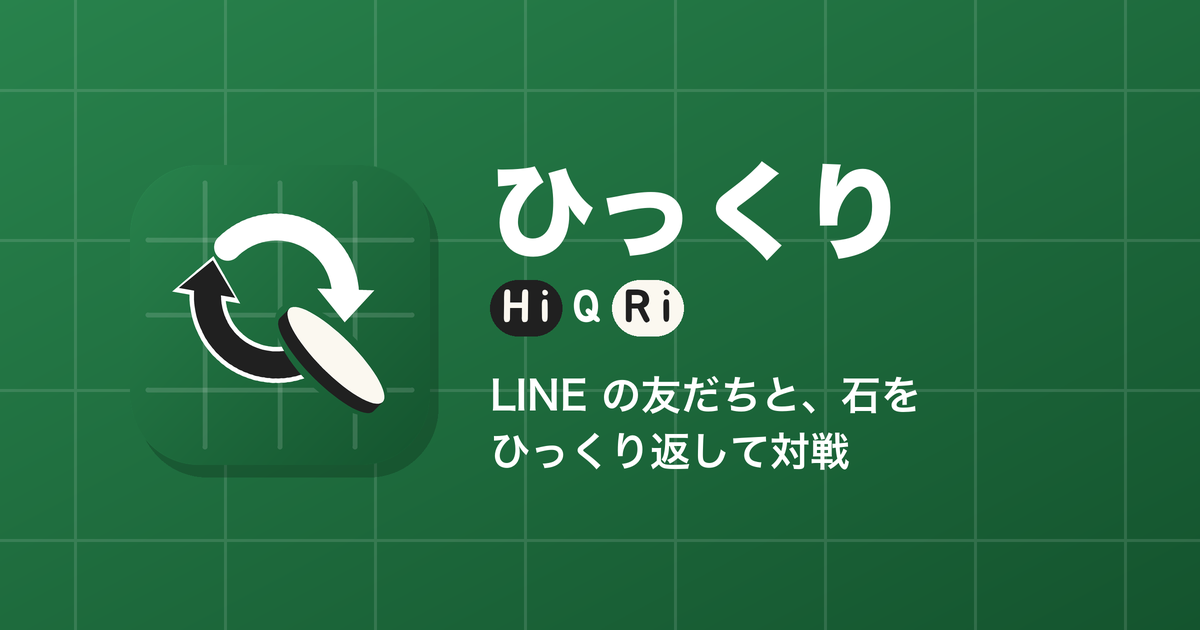
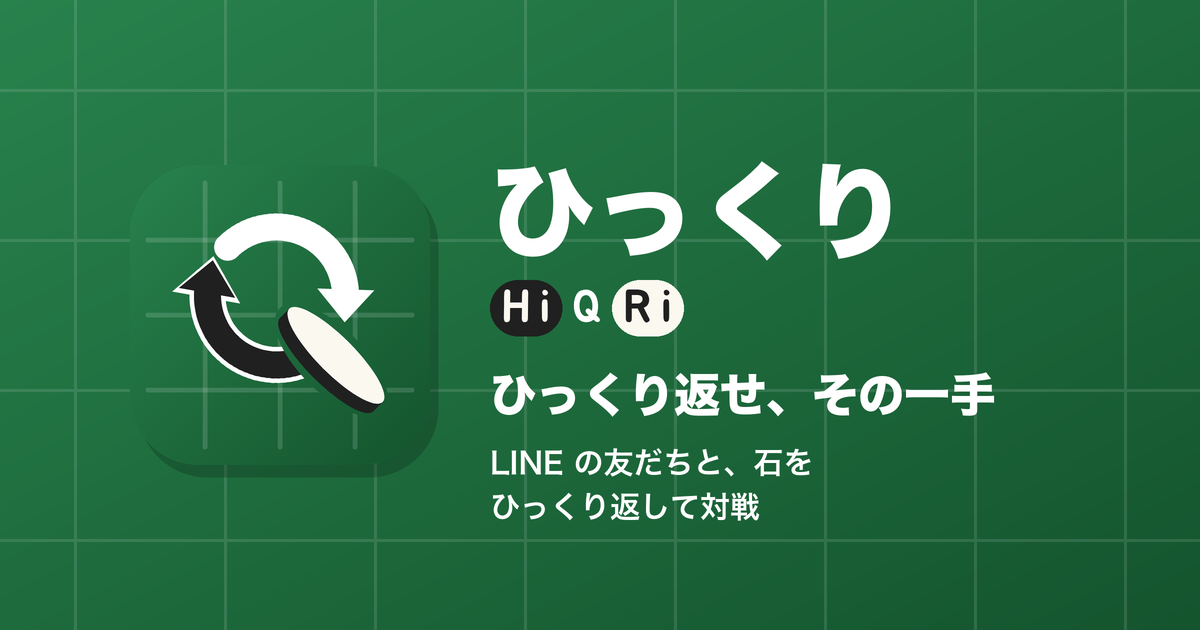
[add] キャッチコピー「ひっくり返せ、その一手」を見出しの下と OGP に入れる

Changed region(s): [[0.4008, 0.573, 0.8325, 0.754], [0.4008, 0.7841, 0.6475, 0.8444]]

diff --git a/index.html b/index.html
@@ -40,6 +40,7 @@
           <img class="brand-logo" src="assets/logo.svg" alt="HiQRi" width="78" height="28">
           <span id="versionBadge" class="version-badge" aria-label="コミットバージョン">----</span>
         </div>
+        <p class="brand-copy">ひっくり返せ、その一手</p>
       </div>
       <div class="top-actions">
         <div class="room-overview">

diff --git a/css/styles.css b/css/styles.css
@@ -476,3 +476,6 @@ button:disabled {
   font-weight: 600;
   opacity: 0.85;
 }
+
+/* キャッチコピー（見出しの行のすぐ下。おくるんの「つくって、おくるん」と同じ役目） */
+.brand-copy { margin: 4px 0 0; color: #1F7A45; font-size: 13px; font-weight: 800; line-height: 1.4; letter-spacing: 0.02em; }

diff --git a/tools/icon.py b/tools/icon.py
@@ -104,7 +104,7 @@ def main():
     BRAND.write_icons(ASSETS, SHAPES)
     logo, ratio = BRAND.logo_svg("HiQRi", SHAPES, C, RING_OUTER, "HiQRi（ひっくり）", fills=LETTERS, plates=PLATES)
     (ASSETS / "logo.svg").write_text(logo, encoding="utf-8")
-    BRAND.write_ogp(ASSETS / "ogp.png", SHAPES, "ひっくり", "HiQRi", ["LINE の友だちと、石を", "ひっくり返して対戦"], decorate, en_fills=LETTERS, en_plates=PLATES)
+    BRAND.write_ogp(ASSETS / "ogp.png", SHAPES, "ひっくり", "HiQRi", ["LINE の友だちと、石を", "ひっくり返して対戦"], decorate, en_fills=LETTERS, en_plates=PLATES, copy="ひっくり返せ、その一手")
     print(f"アイコン・logo.svg（高さ 28px なら幅 {28 * ratio:.0f}px）・ogp.png を書き出しました")
 
 
